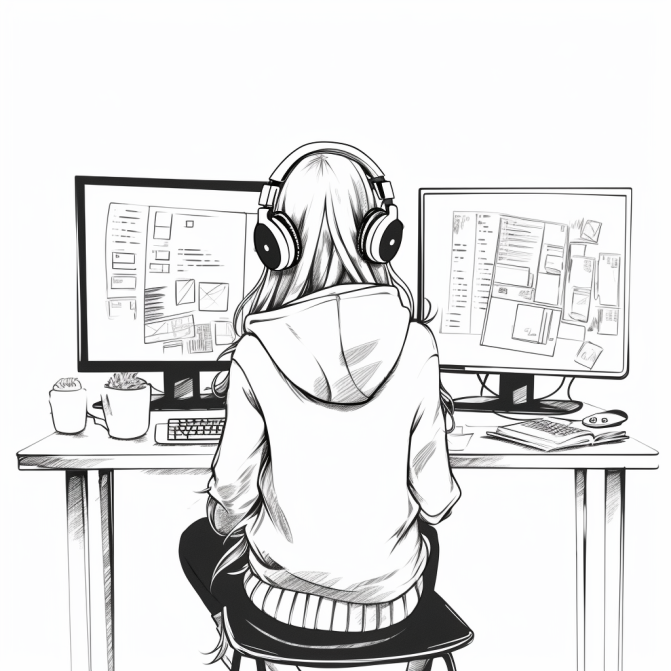
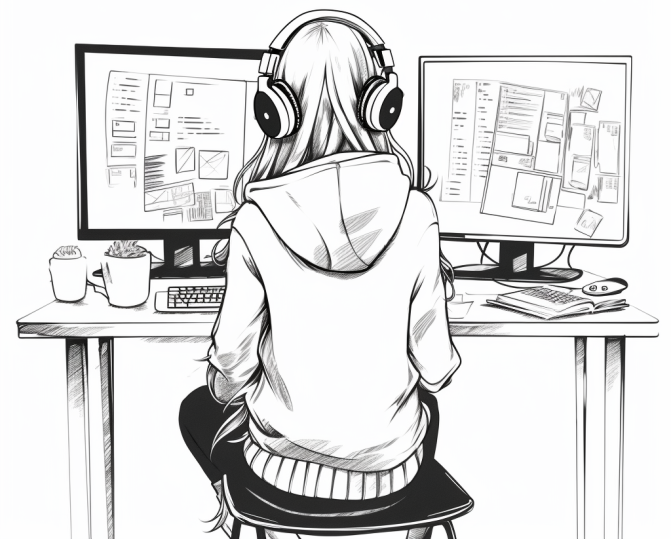
update  images

diff --git a/pages/index.js b/pages/index.js
@@ -24,8 +24,9 @@ export default function Home() {
         <main className="flex-1 flex flex-col">
           {/* About Section */}
           <div class="divide-y-4 divide-black">
-            <div className="pt-0 md:pb-16s h-[12rem] md:h-[32rem] flex justify-center items-center">
-              <div className="container mx-auto px-4 max-w-5xl text-center md:bg-black md:text-white text-2xl md:text-6xl py-4">
+            <div className="flex flex-col items-center justify-center">
+              <img src="/girl.png" className="object-cover h-96 w-96" />
+              <div className="container mx-auto my-16 p-4 max-w-4xl text-center bg-black text-white text-2xl md:text-5xl  ">
                 <TypeAnimation
                   sequence={[
                     "Hi, I'm TranMuse.",

diff --git a/components/Layout.js b/components/Layout.js
@@ -28,7 +28,7 @@ const Layout = ({ children }) => {
   return (
     <div className="flex flex-col min-h-screen">
       <Header />
-      <main className="min-h-screen py-16">{children}</main>
+      <main className="min-h-screen">{children}</main>
       <Footer />
       {showScroll && (
         <div className="fixed bottom-8 right-8 cursor-pointer">
